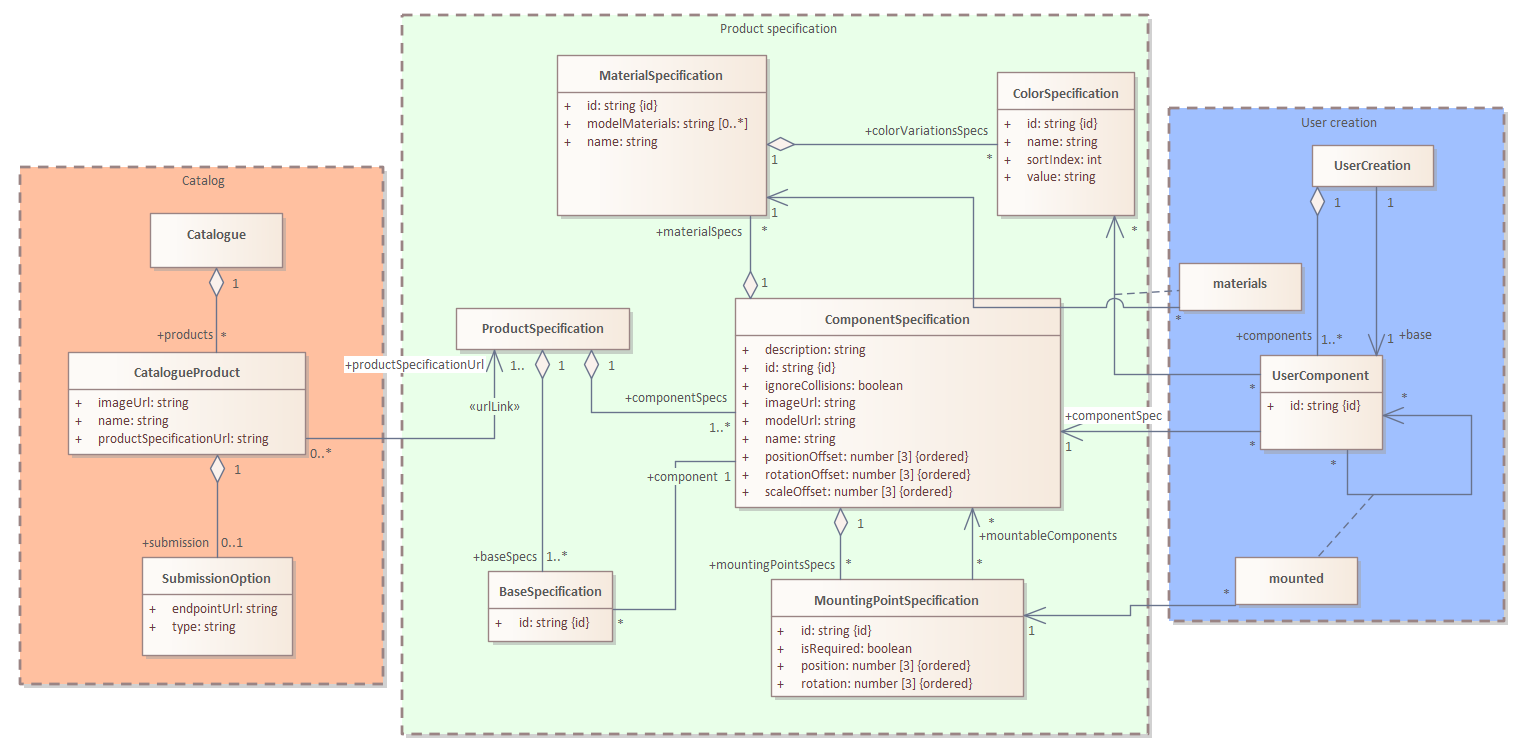
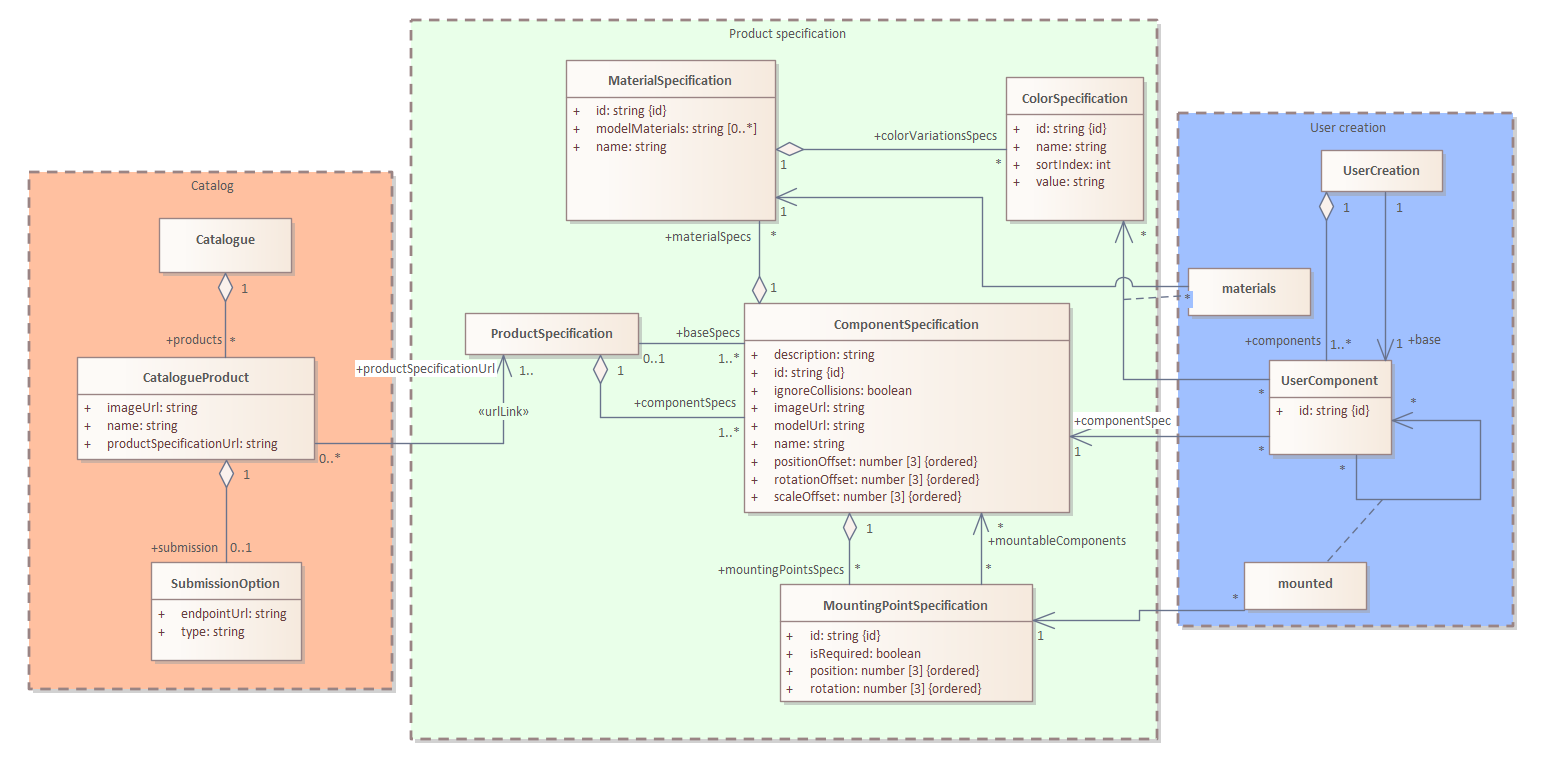
Update on Overleaf.

diff --git a/text/chapters/3.tex b/text/chapters/3.tex
@@ -14,9 +14,9 @@ Implementation focuses primarily on the requirements outlined in Chapter \ref{re
 
 The application is designed as a front-end only solution. This architecture simplifies the deployment and dependencies, making it easier to integrate into existing systems. Compared to a full stack solution, it also reduces maintenance and from a security point of view minimizes the attack surface. 
 
-Given it's front-end nature, the configuration's administration can be done through reading from static configuration files rather than relying on data from a backend API. This way, operators of the application can easily adjust the application's behavior and offerings without the need for complex back-end processing, which is not needed in this case as the data are not sensitive or time specific and have predefined structure. 
+Given it's front-end nature, the configuration's administration can be done through reading from static configuration files rather than relying on data from a backend API. This way, operators of the application can easily adjust the application's behavior and offerings without the need for complex back-end processing, which is not needed in this case as the data are not sensitive or time specific and have a predefined structure. 
 
-Consequently, the toolkit is divided into two main applications: the configurator component and the administrator component. The configurator is the user-facing part that businesses deploy or embed on their webservers, offering the ability to configure products based on the supplied configuration files. The administrator application, on the other hand, is used by the toolkit operators to generate and edit these configuration files for the configuration application.
+Consequently, the toolkit is divided into two main applications: the configurator component and the administrator component. The configurator is the user-facing part that businesses deploy or embed on their webservers, offering the ability to configure products based on the supplied configuration files. The administrator application, on the other hand, is used by the toolkit operators to generate and edit these configuration files.
 
 It should be noted that with this architecture, deploying the administrator application is not a prerequisite for every instance of the configurator; it can be used across various configurators of the same version or even run for the necessary short while in development mode. This flexibility ensures that businesses can manage and update their configurator setups without the need to deploy an instance of the administrator application.
 
@@ -49,13 +49,13 @@ This structure is also implemented in such a way that if the need for a back-end
 }
 \vspace{16pt}
 
-Given the separation of the toolkit into the configurator and administrator components, the project is split into two subprojects in the \textquote{apps} directory. The configurator application is located in the main directory, while the admin directory contains the source files for the administrator application. Consequently, each of the subprojects has its own Vite configuration, among their \textquote{index.html} file, \textquote{src} directories for code and \textquote{package.json} for managing the subproject-specific dependencies. 
+Given the separation of the toolkit into the configurator and administrator components, the project is split into two subprojects in the \textquote{apps} directory. The configurator application is located in the main directory, while the admin directory contains the source files for the administrator application. Consequently, each of the subprojects has its own Vite configuration, among their \textquote{index.html} files, \textquote{src} directories for code and \textquote{package.json} for managing the subproject-specific dependencies. 
 
-To minimize code duplication, the \textquote{shared} library is located in the \textquote{packages} directory. This shared library contains common elements imported by both applications, such as data schemes, generic shared React components, custom React hooks, types and interfaces, CSS styles, or other utility functions. Using this shared package in the configurator and administrator applications ensures consistency and reduces redundancy across the toolkit.
+To minimize code duplication, the \textquote{shared} library is located in the \textquote{packages} directory. This shared library contains common elements imported by both applications, such as data schemes, generic React components, custom React hooks, types and interfaces, CSS styles, or other utility functions. Using this shared package in the configurator and administrator applications ensures consistency and reduces redundancy across the toolkit.
 
 Most dependencies are managed centrally in the root \textquote{package.json} file, with dependencies specific to the subprojects being handled in their corresponding package files. This approach optimizes dependency management across the entire project.
 
-It is important to note that the presented directory tree shows the separation of the project into subprojects: configurator and administrator applications, and the shared library. It is not exhaustive, as the actual project contains various other config and dot files.
+It is important to note that the presented directory tree focuses on illustrating the separation of the project into subprojects: configurator and administrator applications, and the shared library. It is not exhaustive, as the actual project contains various other config and dot files.
 
 The following is a brief overview of the \textquote{src} directories, which organize the source code into logical sections. The directories have the same layout across all subprojects.
 
@@ -83,40 +83,147 @@ The following is a brief overview of the \textquote{src} directories, which orga
 \end{figure}
 \end{landscape}
 
+\todo{Unimplement baseSpec and prices in code, change size in MaterialSpecification in UML, change color of materials and mounted in UML, rename catalogue to catalog everywhere, add optional attributes in uml, id an product schema}
+
 %______________________________________________________________
 \section{Data schemas}
 %______________________________________________________________
 
-The data schema is derived from the domain model discussed in Chapter \ref{domain-model}. These schemas define the shape of the objects, which are used to transfer and store information within the tool. 
+The data schemas are derived from the domain model discussed in Chapter \ref{domain-model}. These schemas define the shape of the objects that are used to transfer and store information within the tool. 
 
-To visualize these schemas, a UML diagram is provided in Figure \ref{fig:data-schema}. The diagram provides a general overview of the structures and associations, but the implementation requires slight adjustments.
+To visualize these schemas, a UML diagram is provided in Figure \ref{fig:data-schema}. The diagram provides a general overview of utilized the structures and associations, but the implementation requires slight adjustments.
 
 Data schemas are stored in the shared library discussed in the previous section. This ensures consistency, as they are used in both the main and admin applications. 
 
-The data schemas are organized into three separate parts: Catalog, product specification, and user creation. Each of these parts corresponds to a separate file in the shared library, in addition to their different roles within the application. The parts are discussed in the following sections, and the UML diagram in Figure \ref{fig:data-schema} provides color coding to differentiate the different parts.
+The schemas are organized into three separate parts: Catalog, product specification, and user creation. Each of these parts corresponds to a separate file in the shared library, in addition to their different roles within the application. The parts are discussed in the following sections, and the UML diagram in Figure \ref{fig:data-schema} provides color coding to differentiate them.
 
-As discussed in Chapter \ref{zod}, the implementation of data schemas utilizes the Zod validation library, which allows straightforward validation of the shape of the data during parsing. TypeScript types are then easily created from these Zod schemas, which can be seen in Code Listing \ref{lst:zod}. \cite{Wycliffe2023} 
+As discussed in Chapter \ref{zod}, the implementation of data schemas utilizes the Zod validation library, which allows straightforward validation of the shape of the data during parsing. TypeScript types are then easily created from these Zod schemas, which is illustrated in Code listing \ref{lst:zod}. \cite{Wycliffe2023} 
 
+
+% - - - - - - - - - - - - - - - - - - - - - - - - - - - - - - -
 \subsection{Catalog}
+% - - - - - - - - - - - - - - - - - - - - - - - - - - - - - - -
 
-The catalog data schema is visualized with an orange tint in the UML diagram.
+The catalog data schema, visualized with an orange tint in the UML diagram, is essential for the initial user interaction with the application.
 
-Building upon the domain model, the catalog is created by the operator of the tool and contains product specifications. However, compared to the domain model, there is an additional level of abstraction in the form of \textquote{CatalogueProduct}, which contains the most important information about the product specification, such as the name and the preview image. The reason for this is that the catalog will first be fetched when the configuration application is launched, and this information must be presented to the user as soon as possible. The specification of the product, which contains the information needed for the configuration process, can then be fetched from an URL stored inside this object after the user decides which product to configure, which is represented by the stereotype \textquote{urlLink} in the UML diagram.
+\begin{lstlisting}[caption={~Catalogue schema},label={lst:schema-catalogue},captionpos=b,abovecaptionskip=\medskipamount,belowcaptionskip=\medskipamount]
+export const SubmissionOptionSchema = z.object({
+  type: SubmissionTypeSchema,
+  endpointUrl: z.string().url(),
+});
+
+export const CatalogueProductSchema = z.object({
+  name: z.string().max(100),
+  productSpecificationUrl: z.string(),
+  imageUrl: z.string(),
+  submission: SubmissionOptionSchema.optional(),
+});
+
+export const CatalogueSchema = z.object({
+  products: z.record(CatalogueProductSchema),
+});
+\end{lstlisting}
+
+Building upon the domain model, the catalog is created by the operator of the tool and covers all product specifications. However, compared to the domain model, there is an additional level of abstraction in the form of \textquote{CatalogueProduct}, which contains the most important information about the product specification, such as the name and the preview image. The catalog is separated from the product specifications, which are stored elsewhere. One reason for this is that the catalog will first be fetched when the configuration application is launched, and this information must be presented to the user as soon as possible. The specification of the product, which contains the information needed for the configuration process, can then be fetched from an URL stored inside this object after the user decides which product to configure, which is represented by the stereotype \textquote{urlLink} in the UML diagram.
 
 In addition, each product stores information about the confirmation action in the form of a \textquote{SubmissionOption}, which specifies the type of action and the endpoint to which the application potentially sends the confirmed configuration.
 
+The TypeScript implementation can be seen in Code listing \ref{lst:schema-catalogue}. In the catalogue, each product is stored using a record structure, with ID of the product as a key. The names have been arbitrarily limited to 100 characters to ensure that they can fit within the correct user interface position. URLs, except for the endpoint, are not validated to accommodate local addresses.
+
+
+% - - - - - - - - - - - - - - - - - - - - - - - - - - - - - - -
 \subsection{Product specification}
+% - - - - - - - - - - - - - - - - - - - - - - - - - - - - - - -
 
-The advantage of the structure where the catalog is separate from the specifications, which are fetched only when needed, is that each specification can be sourced from a different location.
+The advantage of the structure where the catalog is separate from the specifications, which are fetched only when needed, is that each specification can be sourced from a different location. The specifications can also be updated independently on the rest of the catalog.
+
+The product specification part is visualized by a green tint in the UML diagram.  
+
+\begin{lstlisting}[caption={~Product and component specification schema},label={lst:schema-componentspecification},captionpos=b,abovecaptionskip=\medskipamount,belowcaptionskip=\medskipamount]
+export const ComponentSpecificationSchema = z.object({
+  name: z.string().max(100),
+  description: z.string(),
+  imageUrl: z.string(),
+  modelUrl: z.string(),
+  materialSpecs: z.record(MaterialSpecificationSchema),
+  mountingPointsSpecs: z.record(MountingPointSpecificationSchema),
+  positionOffset: z.tuple(
+    [z.number(), z.number(), z.number()]).optional(),
+  rotationOffset: z.tuple(
+    [z.number(), z.number(), z.number()]).optional(),
+  scaleOffset: z.tuple([z.number(), z.number(), z.number()]).optional(),
+  ignoreCollisions: z.boolean().optional(),
+});
+
+export const BaseSpecificationSchema = z.object({
+  component: z.string(),
+});
+
+export const ProductSpecificationSchema = z.object({
+  baseSpecs: z.record(BaseSpecificationSchema),
+  componentSpecs: z.record(ComponentSpecificationSchema),
+});
+\end{lstlisting}
+
+This part of the data is created by the tool's operator and provides information about the available options for user configuration of a chosen product.
+
+The schemas are also derived from the domain model, although with some modifications such as changes in attributes and some objects being merged.
+
+Most of the concepts in this part are identical to the domain model; however, the new concept of \textquote{base} component is introduced here. Due to the modularity principle, each component is in some way mounted on another component. Base components are such components that can initiate the configuration as they are not mounted to other components. They represent the potentially first component of a configuration. These base components are defined in the product specification.
+
+In the data schema, the model is directly included in the component specification, with the \textquote{modelUrl} attribute pointing to a location with the 3D model file. To compensate for this coupling, attributes that modify the position, rotation, and scale of the model are added to the component specification. Further attributes are also present, such as a description or the option to ignore collisions for this component. The material specification includes the names of the model's meshes in the attribute \textquote{modelMaterials}, and the color specification features the \textquote{sortIndex} attribute, which determines the presentation order to the user.
+
+In TypeScript, the aggregations depicted in the UML diagram are implemented as records, with the IDs serving as keys and the objects as values. Other associations are implemented using solely IDs. Color values are represented using hex code. The implementation of the product and component specifications can be viewed in Code listing \ref{lst:schema-componentspecification}. Other entities in this section are implemented similarly and therefore do not require detailed previews within the text of the thesis.
 
 
-
+% - - - - - - - - - - - - - - - - - - - - - - - - - - - - - - -
 \subsection{User creation}
+% - - - - - - - - - - - - - - - - - - - - - - - - - - - - - - -
+
+User creation corresponds to the configuration entity of domain model, but has been renamed in implementation, as \textquote{configuraiton} is an ambiguous term that can mean several things in application development, for example configuration of the application itself. This makes it clearer what this data schema is representing.
+
+User creation is tinted blue in the UML diagram.
+
+\begin{lstlisting}[caption={~User creation schema},label={lst:schema-usercreation},captionpos=b,abovecaptionskip=\medskipamount,belowcaptionskip=\medskipamount]
+export const UserComponentSchema = z.object({
+  componentSpec: z.string(),
+  materials: z.record(z.string()),
+  mounted: z.record(z.string()),
+});
+
+export const UserCreationSchema = z.object({
+  base: z.string(),
+  components: z.record(UserComponentSchema),
+});
+\end{lstlisting}
+
+User creation stores the configured components, as well as the selected base component, which is the first component of the configuration. All other components are mounted on this component or other components.
+
+In contrast to the domain model, the configured component is represented by \textquote{UserComponent}. This configured component links to a component specification that serves as a template. It also stores information about the mounted components, including the specific mounting points where each component is attached, as well as the selected colors of the materials that have been customized.
+
+In the TypeScript implementation, which can be viewed in the Code listing \ref{lst:schema-usercreation}, the user components are stored in a record with their unique ID as the key. The component specification for each user component is linked by its ID. Information about mounted components are stored in records, with the mounting point specification ID as the key to identify the position and the ID of the user component as the value. Similarly, materials are organized with the material specification ID as the key and the ID of the selected color specification for that material as the value.
+
 
 %______________________________________________________________
 \section{Challenges and solutions}
 %______________________________________________________________
 
+\subsection{Component visualization}
+\subsubsection{Component interactivity}
+
+\subsection{Model material change}
+
+\subsection{Undo and redo actions}
+
+\subsection{Collision detection}
+
+\subsection{Configuration confirmation}
+\subsubsection{Inquiry form}
+
+\subsection{Application configuration}
+\subsubsection{Interface texts}
+
+\subsection{Catalogue management}
 
 %______________________________________________________________
 \section{Views}

diff --git a/text/chapters/2.tex b/text/chapters/2.tex
@@ -55,7 +55,7 @@ For this solution, the decision has been greatly influenced by the selection of 
 
 In addition, the Drei library, built on top of R3F, introduces a collection of useful components, abstractions, and helpers. These additions streamline the development with Three.js and React even more. \cite{Drei}
 
-These libraries make React an attractive choice for this project. To see how the code differs when aiming to achieve similar objectives, refer to Code Listing \ref{lst:threejs} for the plain Three.js version and Code Listing \ref{lst:r3f} for the R3F version, both creating a simple 3D red cube.
+These libraries make React an attractive choice for this project. To see how the code differs when aiming to achieve similar objectives, refer to Code listing \ref{lst:threejs} for the plain Three.js version and Code listing \ref{lst:r3f} for the R3F version, both creating a simple 3D red cube.
 
 React is a user interface library created at Facebook in 2011, but soon after became open source. React has gained widespread acclaim across many projects and has been continually developed since its inception. It emphasizes component-based architecture, where reactive components are written in JavaScript (or TypeScript) combined with HTML-like markup code, facilitating the creation of dynamic user interfaces. \cite{Banks2020}
 
@@ -169,7 +169,7 @@ The model domain presents a structure of product and component specifications co
 \subsection{Catalog}
 % - - - - - - - - - - - - - - - - - - - - - - - - - - - - - - -
 
-The catalog forms the backbone of our toolkit and defines the blueprint for customizable products. The catalog encompasses a variety of product specifications, each defining a configurable product along with all its potential customizations. This section delves into how these specifications lay the foundation for user-driven product configuration.
+The catalog forms the backbone of the proposed toolkit and defines the blueprint for customizable products. The catalog encompasses a variety of product specifications, each defining a configurable product along with all its potential customizations. This section delves into how these specifications lay the foundation for user-driven product configuration.
 The entities discussed in this section are as follows:
 \begin{itemize}
     \item Catalog
